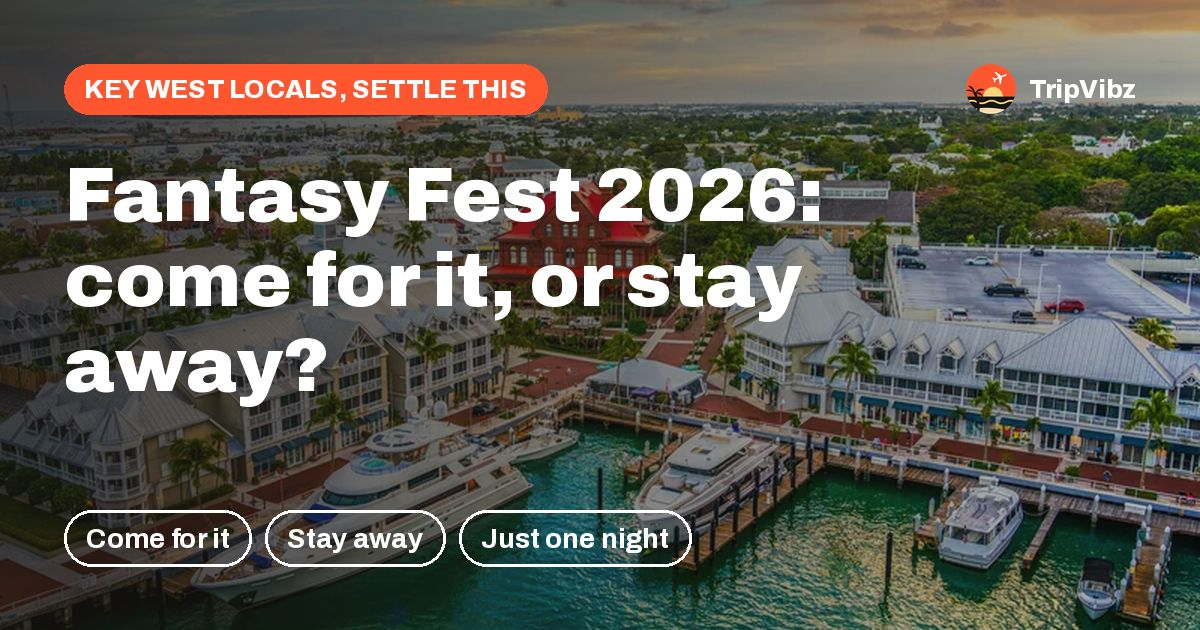
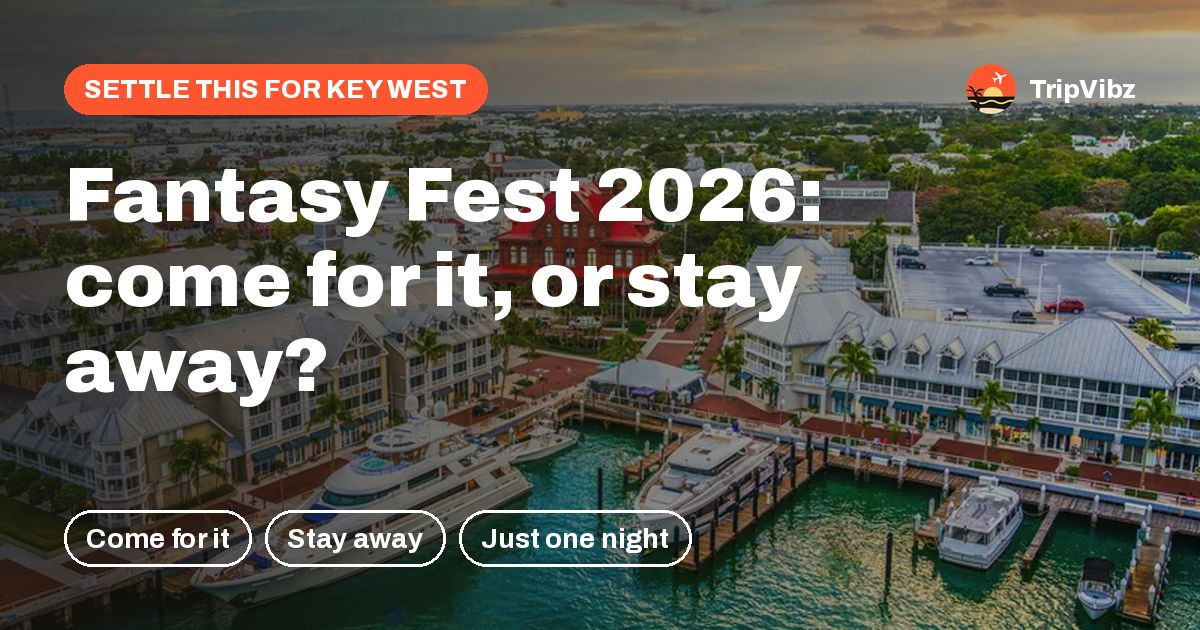
Info pages match the current site, and a check keeps them that way
Page review (Nov 7):
- Privacy: opened with the retired "what they get wrong" hook; didn't list
  vibes, city requests or calendar suggestions; didn't name Stay22 (hotel
  map) or ntfy (owner notifications carry take text, search words and rough
  city); described Facebook/TikTok/email sign-in as if live. Rewritten for
  Google-only sign-in; delete list now includes top 3, vibes and badge records.
- About: adds Vibes. Terms: "opinions from people who know the city".
- Founding locals require the check mark (city_founders view), but the city,
  topic and add pages, the Cities page and the add share card promised it to
  the first 10 signed-in locals. Reworded everywhere.
- Retired wording left in the city share images ("<CITY> LOCALS, SETTLE
  THIS"; 26 cards regenerated), the city page's structured data and the vote
  page description.

Rule: CLAUDE.md "Keep the info pages current", enforced by a static test:
Privacy must name every outside service (CSP + functions/) and every table
storing what people enter, and be dated after the newest such table;
retired wording fails anywhere; About must list the main features. Each
part was checked by breaking it on purpose.

Claude-Session: https://claude.ai/code/session_01NyWSebWPPnE8dYpgKEbQhj

Changed region(s): [[0.0617, 0.0905, 0.4625, 0.2111]]

diff --git a/privacy/index.html b/privacy/index.html
@@ -29,24 +29,24 @@
 </header>
 <main class="wrap"><article class="doc">
 <h1>Privacy</h1>
-<p class="upd">Last updated October 30, 2026</p>
-<p>TripVibz is where locals tell visitors what they get wrong about their city. This page says what we collect, why, and how to have it deleted.</p>
+<p class="upd">Last updated November 7, 2026</p>
+<p>TripVibz is where people who know a city say where they'd take a friend, what to skip and when to come. This page says what we collect, why, and how to have it deleted.</p>
 <h2>What we collect</h2>
 <ul>
 <li><b>If you just browse or vote:</b> an anonymous ID stored in your browser so your votes count once. No name or email.</li>
-<li><b>If you sign in:</b> what the service you sign in with shares with us: your name and profile photo, plus your email address from Google or Facebook. TikTok gives us your display name, photo and a TikTok user ID, no email. If you sign in with an emailed link, we get only your email address.</li>
+<li><b>If you sign in:</b> you sign in with Google, which shares your name, profile photo and email address with us. (Facebook, TikTok and emailed sign-in links are built but not switched on; this page will say what each shares before any of them is.)</li>
 <li><b>If you sign up for email:</b> your email address and which city you asked about. We use it only to send TripVibz emails: new takes and questions from locals. Every email has an unsubscribe link.</li>
-<li><b>What you post:</b> your takes, replies, votes and answers to city questions, your top 3 restaurant picks for a city (with the one-line reasons you give), and how long you've lived in a city if you tell us.</li>
+<li><b>What you post:</b> your takes, replies, votes and answers to city questions, your top 3 restaurant picks for a city (with the one-line reasons you give), the vibes you tag on takes and restaurants (like "Date night" or "With the kids"), events you suggest for a city's calendar, the cities you ask us to add, and how long you've lived in a city if you tell us.</li>
 <li><b>Whether you're near a city:</b> when you're signed in and open the site or post, we use the rough location your internet connection appears to come from to check whether you're within about 40 miles of each TripVibz city. For each city we keep: nearby or not at the last check, how many separate days you've been seen nearby, the first and last of those dates, whether the check came from a hosting or VPN network, and whether an editor removed your badge. Never your coordinates or IP address. Being seen nearby on several days over several weeks earns the ✓ on your Local badge for that city (<a href="/how-we-verify-locals/">how we verify locals</a>). Only "verified" and "removed" are visible to other people; the day counts are not.</li>
 <li><b>Rough location when you post:</b> the city, region and country your internet connection appears to come from, used to tell whether a take was posted from the city it's about. We don't store your IP address with your posts.</li>
 <li><b>Usage:</b> Google Analytics and Microsoft Clarity record how pages are used (pages viewed, clicks, scrolling) using cookies, so we can see what works and fix what doesn't.</li>
 </ul>
 <h2>What's public</h2>
-<p>Takes, replies, vote counts and top 3 restaurant picks are public. If you sign in, your first name, photo and Local badge (verified ✓, or "unverified") show next to what you post. Anonymous posts show as "Anonymous". Your email address is never shown.</p>
+<p>Takes, replies, vote counts, top 3 restaurant picks and vibe counts are public. If you sign in, your first name, photo and Local badge (verified ✓, or "unverified") show next to what you post. Anonymous posts show as "Anonymous". Your email address is never shown.</p>
 <h2>Who else handles it</h2>
-<p>Supabase stores the database and Cloudflare serves the site. Google handles sign-in (Facebook, TikTok and email sign-in links will be added when they are switched on; this page will name any provider involved). Kit sends our newsletter emails. Google Analytics and Microsoft Clarity measure usage. We don't sell your data or share it with advertisers.</p>
+<p>Supabase stores the database and Cloudflare serves the site. Google handles sign-in. Kit sends our newsletter emails. Google Analytics and Microsoft Clarity measure usage. The hotel map and "Hotels near" links come from Stay22; when you use them, Stay22 and the booking sites it shows may set their own cookies. TripVibz sends its owner phone notifications through ntfy (ntfy.sh): a new take's text with the rough city it was posted from, site errors with the page and rough city, and visits from a search engine with the search words when the search engine passes them and the rough city. They aren't kept by TripVibz. We don't sell your data or share it with advertisers.</p>
 <h2>Delete your data</h2>
-<p>To stop getting our emails, use the unsubscribe link in any of them. To delete everything, email <a href="mailto:privacy@tripvibz.com">privacy@tripvibz.com</a> from the address you signed in or signed up with, or tell us your name on TripVibz and which service you signed in with (TikTok accounts have no email). We delete your account, email signup, takes, replies and votes within 30 days and confirm by email. To stop Facebook or TikTok sharing with us, remove TripVibz from the apps list in that service's settings.</p>
+<p>To stop getting our emails, use the unsubscribe link in any of them. To delete everything, email <a href="mailto:privacy@tripvibz.com">privacy@tripvibz.com</a> from the address you signed in or signed up with, or tell us your name on TripVibz. We delete your account, email signup, takes, replies, votes, top 3 picks, vibes and local-badge records within 30 days and confirm by email. To stop Google sharing with us, remove TripVibz from the third-party apps list in your Google account.</p>
 <h2>Questions</h2>
 <p><a href="mailto:privacy@tripvibz.com">privacy@tripvibz.com</a></p>
 </article></main>

diff --git a/add.html b/add.html
@@ -98,7 +98,7 @@
       <div class="sect" style="display:flex;flex-direction:column;gap:10px">
         ${signedIn() ? `
           <button class="bigbtn" id="post-badge"><b>Post it</b><small>With your name and ${esc(badge)} badge</small></button>` : `
-          <button class="bigbtn" id="post-badge"><b>Post with my Local badge</b><small>Your name · ${esc(badge)} · ranks higher · founding local</small></button>
+          <button class="bigbtn" id="post-badge"><b>Post with my Local badge</b><small>Your name · ${esc(badge)} · ranks higher · can become a founding local</small></button>
           <button class="bigbtn ghost" id="post-anon"><b>Post anonymously</b><small>No sign-in. Shows as “Unverified”.</small></button>`}
       </div>`;
     wireCompose();
@@ -204,7 +204,7 @@
         <ul>
           <li>Your <b style="color:#fff">${esc(badge)}</b> badge instead of “Unverified” (the ✓ follows once we've seen you around town)</li>
           <li>Your takes rank higher in the feed</li>
-          <li>Claim a founding-local spot in ${esc(CITY.name)}${left ? ` (${left} left)` : ""}</li>
+          <li>A shot at a founding-local spot in ${esc(CITY.name)} once your ✓ comes through${left ? ` (${left} left)` : ""}</li>
                   </ul>
         <button class="bigbtn" id="claim" style="background:#fff;color:#16130e"><b>Sign in</b></button>
         <div class="fine">Takes you already posted move to your name.</div>

diff --git a/about/index.html b/about/index.html
@@ -36,6 +36,7 @@
 <li><b>Takes.</b> One or two sentences on where you'd take a friend, what to skip, and when to go. Everyone votes True or Nope, so the best advice rises.</li>
 <li><b>Quick questions.</b> One-tap polls like "Worth it, or skip it?", answered by people who know the city.</li>
 <li><b>Where they'd take a friend to eat.</b> Each signed-in person names their top 3 restaurants, with a line on why. The city page rolls them up, verified locals first.</li>
+<li><b>Vibes.</b> Tag a "Do this" take or a restaurant with who it's for and what kind of time it is, like Date night, With the kids or Loud and late. A vibe shows once two different people give it, and a city gets a page for a vibe (like Date night in Chicago) once people have tagged places with it.</li>
 <li><b>Local badges.</b> Signed-in people show how long they've lived in a city. The ✓ is earned by being seen near the city on several days over several weeks, not by anything they type; until then the badge says "unverified". <a href="/how-we-verify-locals/">How we verify locals</a>.</li>
 <li><b>The month-by-month calendar.</b> Festivals, conventions, weather and price seasons are researched by the TripVibz editors from official sources and checked monthly. Each one links to its source.</li>
 </ul>

diff --git a/terms/index.html b/terms/index.html
@@ -29,7 +29,7 @@
 </header>
 <main class="wrap"><article class="doc">
 <h1>Terms</h1>
-<p class="upd">Last updated October 19, 2026</p>
+<p class="upd">Last updated November 7, 2026</p>
 <p>By using TripVibz you agree to these terms.</p>
 <h2>Posting</h2>
 <ul>
@@ -41,7 +41,7 @@
 <h2>Your content</h2>
 <p>You keep ownership of what you post. You let TripVibz show, share and promote it (for example on our social accounts or in share images), with your first name and badge if you posted signed in.</p>
 <h2>No guarantees</h2>
-<p>Takes are opinions from locals, not professional advice. Check opening times, prices and safety information yourself before you travel. TripVibz is provided as is, and we're not responsible for decisions made based on what people post.</p>
+<p>Takes are opinions from people who know the city, not professional advice. Check opening times, prices and safety information yourself before you travel. TripVibz is provided as is, and we're not responsible for decisions made based on what people post.</p>
 <h2>Links</h2>
 <p>Some pages link to other sites, such as hotel booking partners. Those sites have their own terms, and we may earn a commission when you book.</p>
 <h2>Contact</h2>

diff --git a/assets/city.js b/assets/city.js
@@ -346,7 +346,7 @@
       <div class="feed" id="feed">${list.length ? list.map(p => T2.takeHtml(p, CTX, { city: CITY, placement: "city_feed" })).join("") :
         VIBE ? `<div class="empty2"><b>No ${esc(T2.VIBE_BY[VIBE].label.toLowerCase())} takes yet</b>Know a place for it? Add a “Do this” take and tag the vibe.</div>` :
         POSTS.length ? `<div class="empty2"><b>Nothing in this section yet</b>Try “Everything”, or add one below.</div>` :
-        `<div class="empty2"><b>No takes yet</b>Know ${esc(CITY.name)}? Tap an answer in the question above, or start your own topic below. The first 10 signed-in locals become founding locals.</div>`}</div>
+        `<div class="empty2"><b>No takes yet</b>Know ${esc(CITY.name)}? Tap an answer in the question above, or start your own topic below. The first 10 verified locals to post become founding locals.</div>`}</div>
       ${topicBox()}
       ${POSTS.length ? `<div class="more-topics">By topic: ${topics.filter(t => POSTS.some(p => p.type === t[0])).map(t => `<a href="/${esc(CITY.slug)}/${t[1]}/">${t[2]}</a>`).join(" · ")}</div>` : ""}`;
   }

diff --git a/places.html b/places.html
@@ -82,7 +82,7 @@
   <section class="req" id="request" aria-labelledby="req-h">
     <div class="k">Don't see your city?</div>
     <h2 id="req-h">Ask for it</h2>
-    <p class="sub">Any of the 100 largest US cities. At <b id="open-at">5</b> asks it goes to the front of the line to open. The first 10 locals to post there become its founding locals.</p>
+    <p class="sub">Any of the 100 largest US cities. At <b id="open-at">5</b> asks it goes to the front of the line to open. The first 10 verified locals to post there become its founding locals.</p>
     <label for="req-q" style="position:absolute;width:1px;height:1px;overflow:hidden;clip:rect(0 0 0 0)">Find a city to request</label>
     <input id="req-q" type="search" placeholder="Type a city…" autocomplete="off">
     <ul id="req-list"></ul>

diff --git a/article.html b/article.html
@@ -242,7 +242,7 @@
           `<a class="chip" href="${k === "all" ? routes.city(CITY.slug) : routes.article(CITY.slug, k)}" ${k === THEME ? 'aria-current="page"' : ""}>${escapeHtml(l)}</a>`).join("")}</nav>
         <div class="feed" id="entries">
           ${list.length ? list.map(p => T2.takeHtml(p, CTX, { city: CITY, placement: PLACEMENT })).join("") :
-            `<div class="empty2"><b>No takes yet</b>Know ${escapeHtml(CITY.name)}? One sentence is enough. The first 10 signed-in locals become founding locals.</div>`}
+            `<div class="empty2"><b>No takes yet</b>Know ${escapeHtml(CITY.name)}? One sentence is enough. The first 10 verified locals to post become founding locals.</div>`}
         </div>
         ${addCard()}
       </section>

diff --git a/functions/_inline-hashes.js b/functions/_inline-hashes.js
@@ -2,10 +2,10 @@
 // Do not edit: run `node build.mjs` after changing a page template.
 export const INLINE_SCRIPT_HASHES = [
   "'sha256-1J4u6pFVSyzB3GBy9kcizREuCIdfsBZoNHbi/82tZ08='",
-  "'sha256-FheN4ikzBFqJi7qGGD0Km2Qq74mYye4eMGNUvpa74RU='",
+  "'sha256-6VMQUd9lqliD1scN58J3oOpu3Sr+o2JMii30zE87b2c='",
+  "'sha256-9dq+KLjsSv0B8e7zv+IBqO8gMTIozxRGE3pKqbOtyFw='",
   "'sha256-Ij4Z5LUZP0exLtimq/5OeKtdjqFCjHKdlnTujJaYTGo='",
   "'sha256-PQrkQtbkXooM09YRosSZlmbaCNqtl+f+fFpBdBIwle4='",
-  "'sha256-R1YKtidkTufhyjcSO/6ys4iDS5K9tn9brU6qfr5ufbc='",
   "'sha256-Yze3VoiEEsOjTUQTpyHI/098zYwNhteZ5GN0asuT3AE='",
   "'sha256-bqCo/SvS0xKMdGwFQcQnYkFSVS0vDiK5VboJfkdg0pc='",
   "'sha256-fHPjDwyjlCgP5o11JGoLQYaqC6kfKMnGPwBd0TH8XdU='",

diff --git a/scripts/og_cards.py b/scripts/og_cards.py
@@ -139,7 +139,7 @@ def photo_base(pb):
 
 def card_question(city, q, pb):
     base = photo_base(pb); d = ImageDraw.Draw(base)
-    kicker(d, f"{city['name'].upper()} LOCALS, SETTLE THIS"); brand(base, d)
+    kicker(d, f"SETTLE THIS FOR {city['name'].upper()}"); brand(base, d)
     headline(d, q["prompt"], PAD + 90)
     chips(d, [o["label"] for o in q["options"][:3]])
     return base

diff --git a/tests/README.md b/tests/README.md
@@ -49,6 +49,7 @@ The database lint needs the database URL: `psql "$SUPABASE_DB_URL" -f tests/db-s
 | Cover page during database updates | Page loads get the 503 "Back in a few minutes" page while `site_status` is on; the API, assets, admin, non-HTML requests and `?preview=live` never do; an expired or unreadable switch serves the real site; `/assets/*` skips Functions; the workflow runs only on migration merges and always switches off | static |
 | Vibes | Add page: up to two vibes on "Do this" takes, none on warnings, saved with the take; take cards take a vibe in one tap; the vibe list in `assets/v2.js` matches the migration; database refuses vibes on warnings and timing, more than two per person per item, and edits; vibe pages (`/<city>/<vibe>/`) exist from 1 entry and are indexed from 3 | e2e + static |
 | New code comes with tests | The "Tests included" check fails a PR that changes site code without a test; the rule (`scripts/tests-included.mjs`) is checked against real past PRs; only the `no-tests-needed` label skips it; `CLAUDE.md` states it and isn't published | static + workflow |
+| Info pages follow the features | Privacy names every outside service (from the CSP and `functions/`) and every table that stores what people enter, and is dated after the newest such table; no retired wording on any page, script or share image; About lists the main features | static |
 | Threads and replies | Split bar, typed "I disagree" reply sent | e2e |
 | JavaScript health | No errors on any page visited | e2e |
 | City pages exist | Page, vote page and add page for every city in the database | static |

diff --git a/CLAUDE.md b/CLAUDE.md
@@ -38,6 +38,24 @@ node build.mjs && node tests/static.mjs && node tests/security.mjs && node tests
 git diff --name-only origin/main...HEAD | node scripts/tests-included.mjs
 ```
 
+## Keep the info pages current
+
+When a feature is added, changed or removed, update what the site says about
+it in the same pull request:
+
+- **About** (`about/index.html`): how it works, one line per main feature.
+- **Privacy** (`privacy/index.html`): anything new that's stored, shown publicly,
+  or sent to an outside service; update its "Last updated" date.
+- **Terms**, **How we verify locals**, and the copy inside the pages (empty
+  states, sign-in prompts, share images from `scripts/og_cards.py`).
+- **Retired wording** goes everywhere at once, including share images and the
+  structured data in `build.mjs`.
+
+`tests/static.mjs` ("Info pages follow the features") enforces the parts it
+can: Privacy must name every outside service the site loads or calls and
+every table that stores what people enter; retired wording fails the build;
+About must list the main features (add yours to its list).
+
 ## How to build it
 
 Read `docs/ARCHITECTURE.md` before adding a feature that touches the server,
